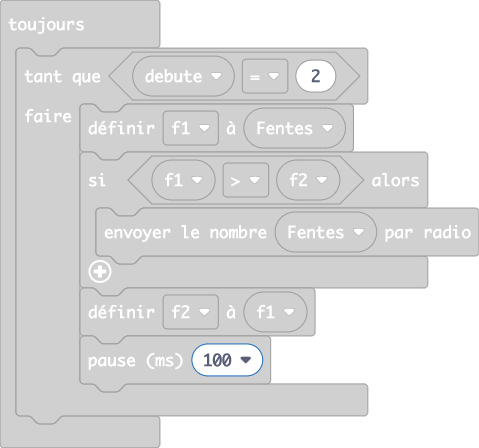
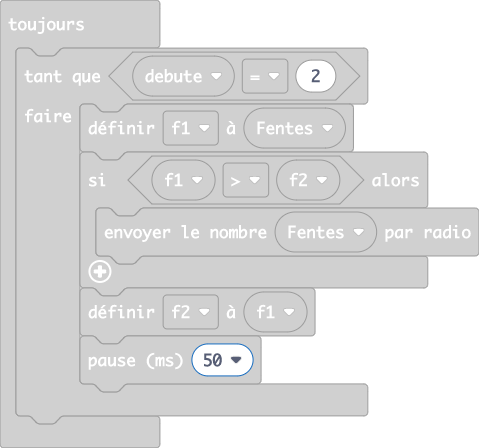
Mise à jour main.blocks, main.ts

Changed region(s): [[0.4092, 0.75, 0.5846, 0.875]]

diff --git a/main.ts b/main.ts
@@ -26,6 +26,6 @@ basic.forever(function () {
             radio.sendNumber(Fentes)
         }
         f2 = f1
-        basic.pause(100)
+        basic.pause(50)
     }
 })
